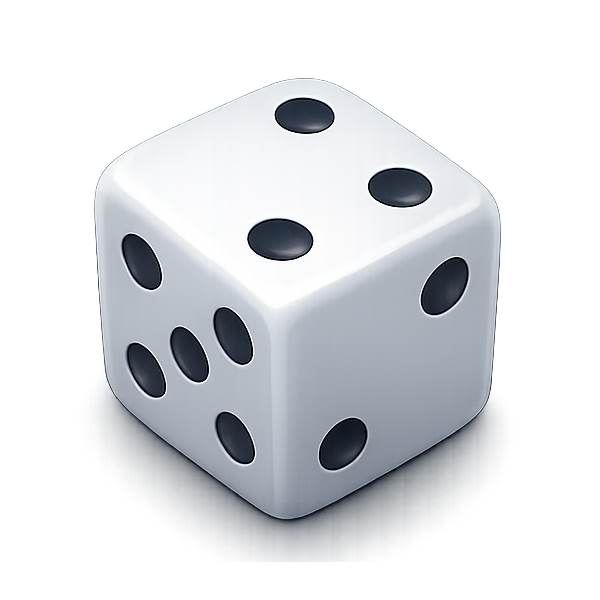
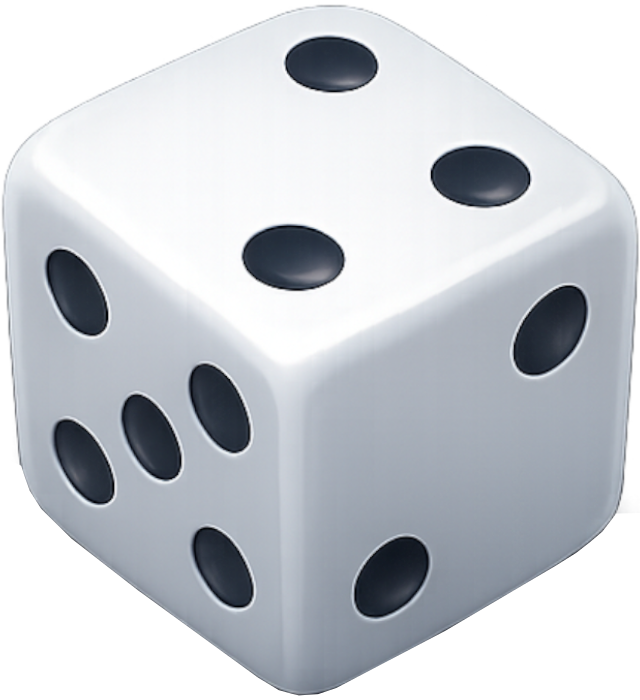
bugs and maked it more clearner

diff --git a/code/app.js b/code/app.js
@@ -1,34 +1,46 @@
 const RollHistoryContainer = document.getElementById("rollHistory");
 const RollHistory = [];
-RollHistory.push(`<div id="rollhead"><h3 class="theme">Roll History</h3><h4 onclick="clearHistory()">Clear history</h4></div>`)
 const d4Btn = document.getElementById("d4Btn");
 const d6Btn = document.getElementById("d6Btn");;
 const d8Btn = document.getElementById("d8Btn");;
 const d10Btn = document.getElementById("d10Btn");;
+const rollbutton = document.getElementById("rollbutton");;
 const logoContainer = document.getElementById("logoContainer");;
 const themeContainer = document.getElementById("themeContainer");;
 
+let d4BtnS = false;
+let d6BtnS = true;
+let d8BtnS = false;
+let d10BtnS = false;
+let theme = "light"
+
+d6Btn.classList.add("activeBtn");
+RollHistory.push(`<div id="rollhead"><h3 class="theme">Roll History</h3><h4 onclick="clearHistory()">Clear history</h4></div>`)
+rollbutton.classList.add("dark");
 
 
-
-function themeDark(){
+function themeDark() {
+          rollbutton.innerHTML = ` <img src="./img/dice icon  dark.webp" alt="">RollDice`
+          rollbutton.classList.remove("dark");
           const text = document.querySelectorAll(".theme");
           const bg = document.querySelectorAll(".themeBg");
           const button = document.querySelectorAll(".button");
           text.forEach(element => {
                     element.classList.add("dark");
-
+                    
           });
           bg.forEach(element => {
                     element.classList.add("dark_bg");
-
+                    
           });
           button.forEach(element => {
                     element.classList.add("darkBtn");
-
+                    
           });
 }
 function themeLight() {
+          rollbutton.innerHTML = ` <img src="./img/dice icon.webp" alt="">RollDice`
+          rollbutton.classList.add("dark");
           const text = document.querySelectorAll(".theme");
           const bg = document.querySelectorAll(".themeBg");
           const button = document.querySelectorAll(".button");
@@ -46,19 +58,12 @@ function themeLight() {
           });
 }
 
-d6Btn.classList.add("activeBtn");
-
-let d4BtnS = false;
-let d6BtnS = true;
-let d8BtnS = false;
-let d10BtnS = false;
-let theme = "light"
 
 
-function switchTheme(){
-          if (theme=="light"){
+function switchTheme() {
+          if (theme == "light") {
                     themeDark()
-                    theme="dark";
+                    theme = "dark";
                     logoContainer.innerHTML = `<img src="./img/logo-dark.svg" alt="">`
                     themeContainer.innerHTML = `<img src="./img/moon.png" alt="">`
           }
@@ -130,23 +135,49 @@ function rollDice() {
           const img = [];
           const indexofhead = RollHistory.indexOf(`<div id="rollhead"><h3 class="theme">Roll History</h3><h4 onclick="clearHistory()">Clear history</h4></div>`)
           let total = 0;
+          let dice = 0;
 
-          for (let i = 0; i < NumOfDice; i++) {
-                    let value = Math.floor(Math.random() * 6) + 1;
-                    values.push(value);
-                    total = total + value;
-                    img.push(`<img src="./img/d6/6d${value}.webp" alt="">`);
-
-
-
-
+          if (d4BtnS) {
+                    dice = 4
+                    for (let i = 0; i < NumOfDice; i++) {
+                              let value = Math.floor(Math.random() * 4) + 1;
+                              values.push(value);
+                              total = total + value;
+                              img.push(`<img src="./img/d4/4d${value}.webp" alt="">`);
+                    }
           }
+          if (d6BtnS) {
+                    dice = 6
+                    for (let i = 0; i < NumOfDice; i++) {
+                              let value = Math.floor(Math.random() * 6) + 1;
+                              values.push(value);
+                              total = total + value;
+                              img.push(`<img src="./img/d6/6d${value}.webp" alt="">`);
+                    }
+          } if (d8BtnS) {
+                    dice = 8
+                    for (let i = 0; i < NumOfDice; i++) {
+                              let value = Math.floor(Math.random() * 8) + 1;
+                              values.push(value);
+                              total = total + value;
+                              img.push(`<img src="./img/d8/8d${value}.webp" alt="">`);
+                    }
+          } if (d10BtnS) {
+                    dice = 10
+                    for (let i = 0; i < NumOfDice; i++) {
+                              let value = Math.floor(Math.random() * 10) + 1;
+                              values.push(value);
+                              total = total + value;
+                              img.push(`<img src="./img/d10/10d${value}.webp" alt="">`);
+                    }
+          }
+
           RollHistory.splice(indexofhead, 1)
-          RollHistory.unshift(`<div><p class="theme">${NumOfDice}d6</p><p class="theme">(${values.join(",")})</p><p class="theme">${total}</p></div>`)
+          RollHistory.unshift(`<div><p class="theme">${NumOfDice}d${dice}</p><p class="theme">(${values.join(",")})</p><p class="theme">${total}</p></div>`)
           RollHistory.unshift(`<div id="rollhead"><h3 class="theme">Roll History</h3><h4 onclick="clearHistory()">Clear history</h4></div>`)
 
           RollHistoryContainer.innerHTML = RollHistory.join("");
-          outputNumContainer.innerHTML = ` <h2 class="theme" >${values.join(",") }</h2>`;
+          outputNumContainer.innerHTML = ` <h2 class="theme" >${values.join(",")}</h2>`;
           DiceImg.innerHTML = img.join("");
           if (theme == "dark") {
                     themeDark()
@@ -168,7 +199,7 @@ function clearHistory() {
           RollHistory.length = 0;
           RollHistory.unshift(`<div id="rollhead"><h3 class="theme">Roll History</h3><h4 onclick="clearHistory()">Clear history</h4></div>`)
           RollHistoryContainer.innerHTML = RollHistory.join("");
-          outputNumContainer.innerHTML = ` <h2 class="theme" ></h2>`;
+          outputNumContainer.innerHTML = ` <h2 class="theme" >output</h2>`;
           DiceImg.innerHTML = `<img src="./img/white dice.png" alt=""><img src="./img/orange dice.png" alt="">`;
           if (theme == "dark") {
                     themeDark()

diff --git a/code/style.css b/code/style.css
@@ -8,9 +8,11 @@ body {
           text-align: center;
 
 }
-button{
+
+button {
           cursor: pointer;
 }
+
 header {
           filter: drop-shadow(0px 0px 5px rgba(0, 0, 0, 0.354));
           padding: 10px;
@@ -62,11 +64,14 @@ main>p {
           font-size: 17px;
           letter-spacing: 2px;
 
-       
+
 }
+
 #dice_img>img {
           margin: 20px;
           width: 150px;
+          height: 100%;
+          aspect-ratio: 9/10;
 
 }
 
@@ -113,7 +118,7 @@ main>p {
           align-items: center;
           gap: 30px;
           justify-content: center;
-          color: white;
+          color: black;
           font-size: 1.5em;
           font-weight: 700;
           -webkit-box-shadow: 0px 6px 11px -13px rgba(0, 0, 0, 0.85);
@@ -160,7 +165,7 @@ main>p {
 
 #diceDBtn>button>img {
           width: 30px;
-          
+
 
 }
 
@@ -198,15 +203,20 @@ main>p {
 
 
 }
-.hide{
+
+.hide {
           display: none !important;
 }
-.dark_bg{
+
+.dark_bg {
           background: #1e2a34 !important;
 }
+
 .dark {
-         color: white !important;
+          color: white !important;
 }
-.darkBtn{
-          color: white !important;background: #1e2a34 !important;
-          }
+
+.darkBtn {
+          color: white !important;
+          background: #182129 !important;
+}

diff --git a/code/index.html b/code/index.html
@@ -26,13 +26,12 @@
 
                               </div>
                               <div id="outputNumContainer">
-                                        <h2 class="theme" ></h2>
+                                        <h2 class="theme" > output</h2>
                               </div>
 
                               <div id="buttonContainer">
-                                        <button onclick="rollDice()"> <img src="./img/dice icon.webp" alt="">Roll
-                                                  Dice</button>
-                                        <input max="7" min="1" id="NumOfDice" placeholder="No. Dice" type="number">
+                                        <button id="rollbutton" onclick="rollDice()"> <img src="./img/dice icon.webp" alt="">RollDice</button>
+                                        <input class="button"   max="7" min="1" id="NumOfDice" placeholder="No. Dice" type="number">
                               </div>
                               <h6 class="theme"> Quick Select</h6>
                               <div id="diceDBtn">